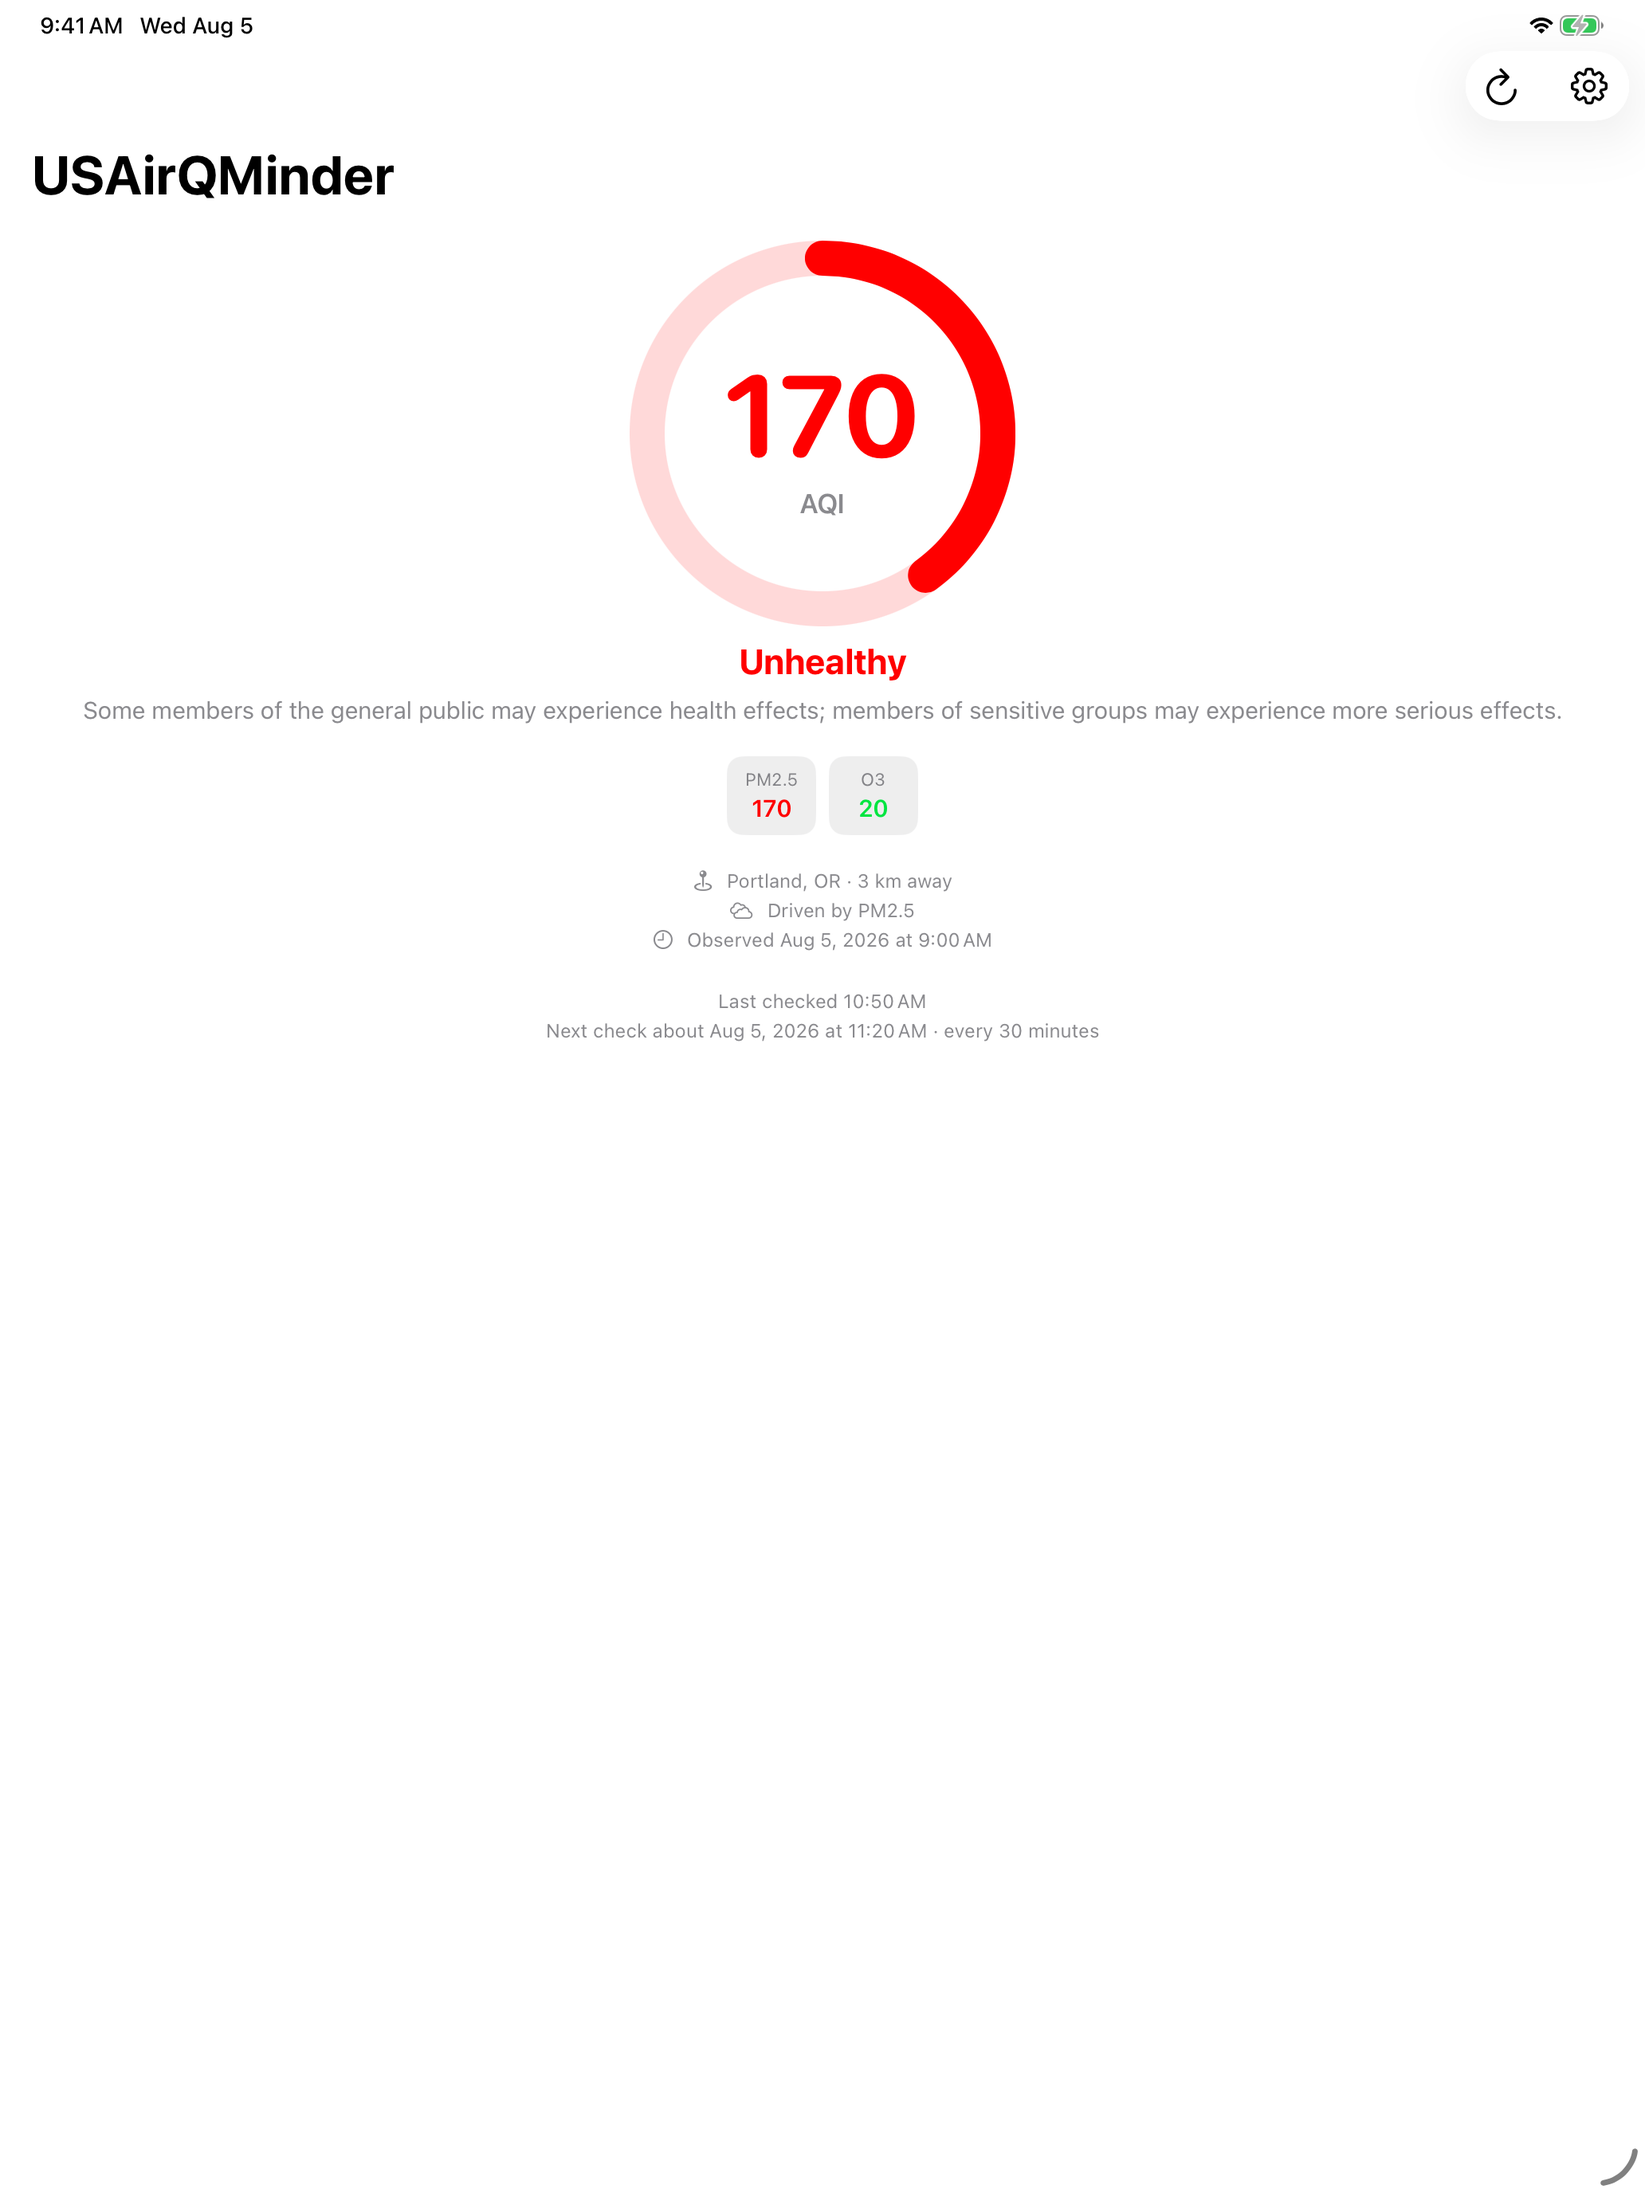
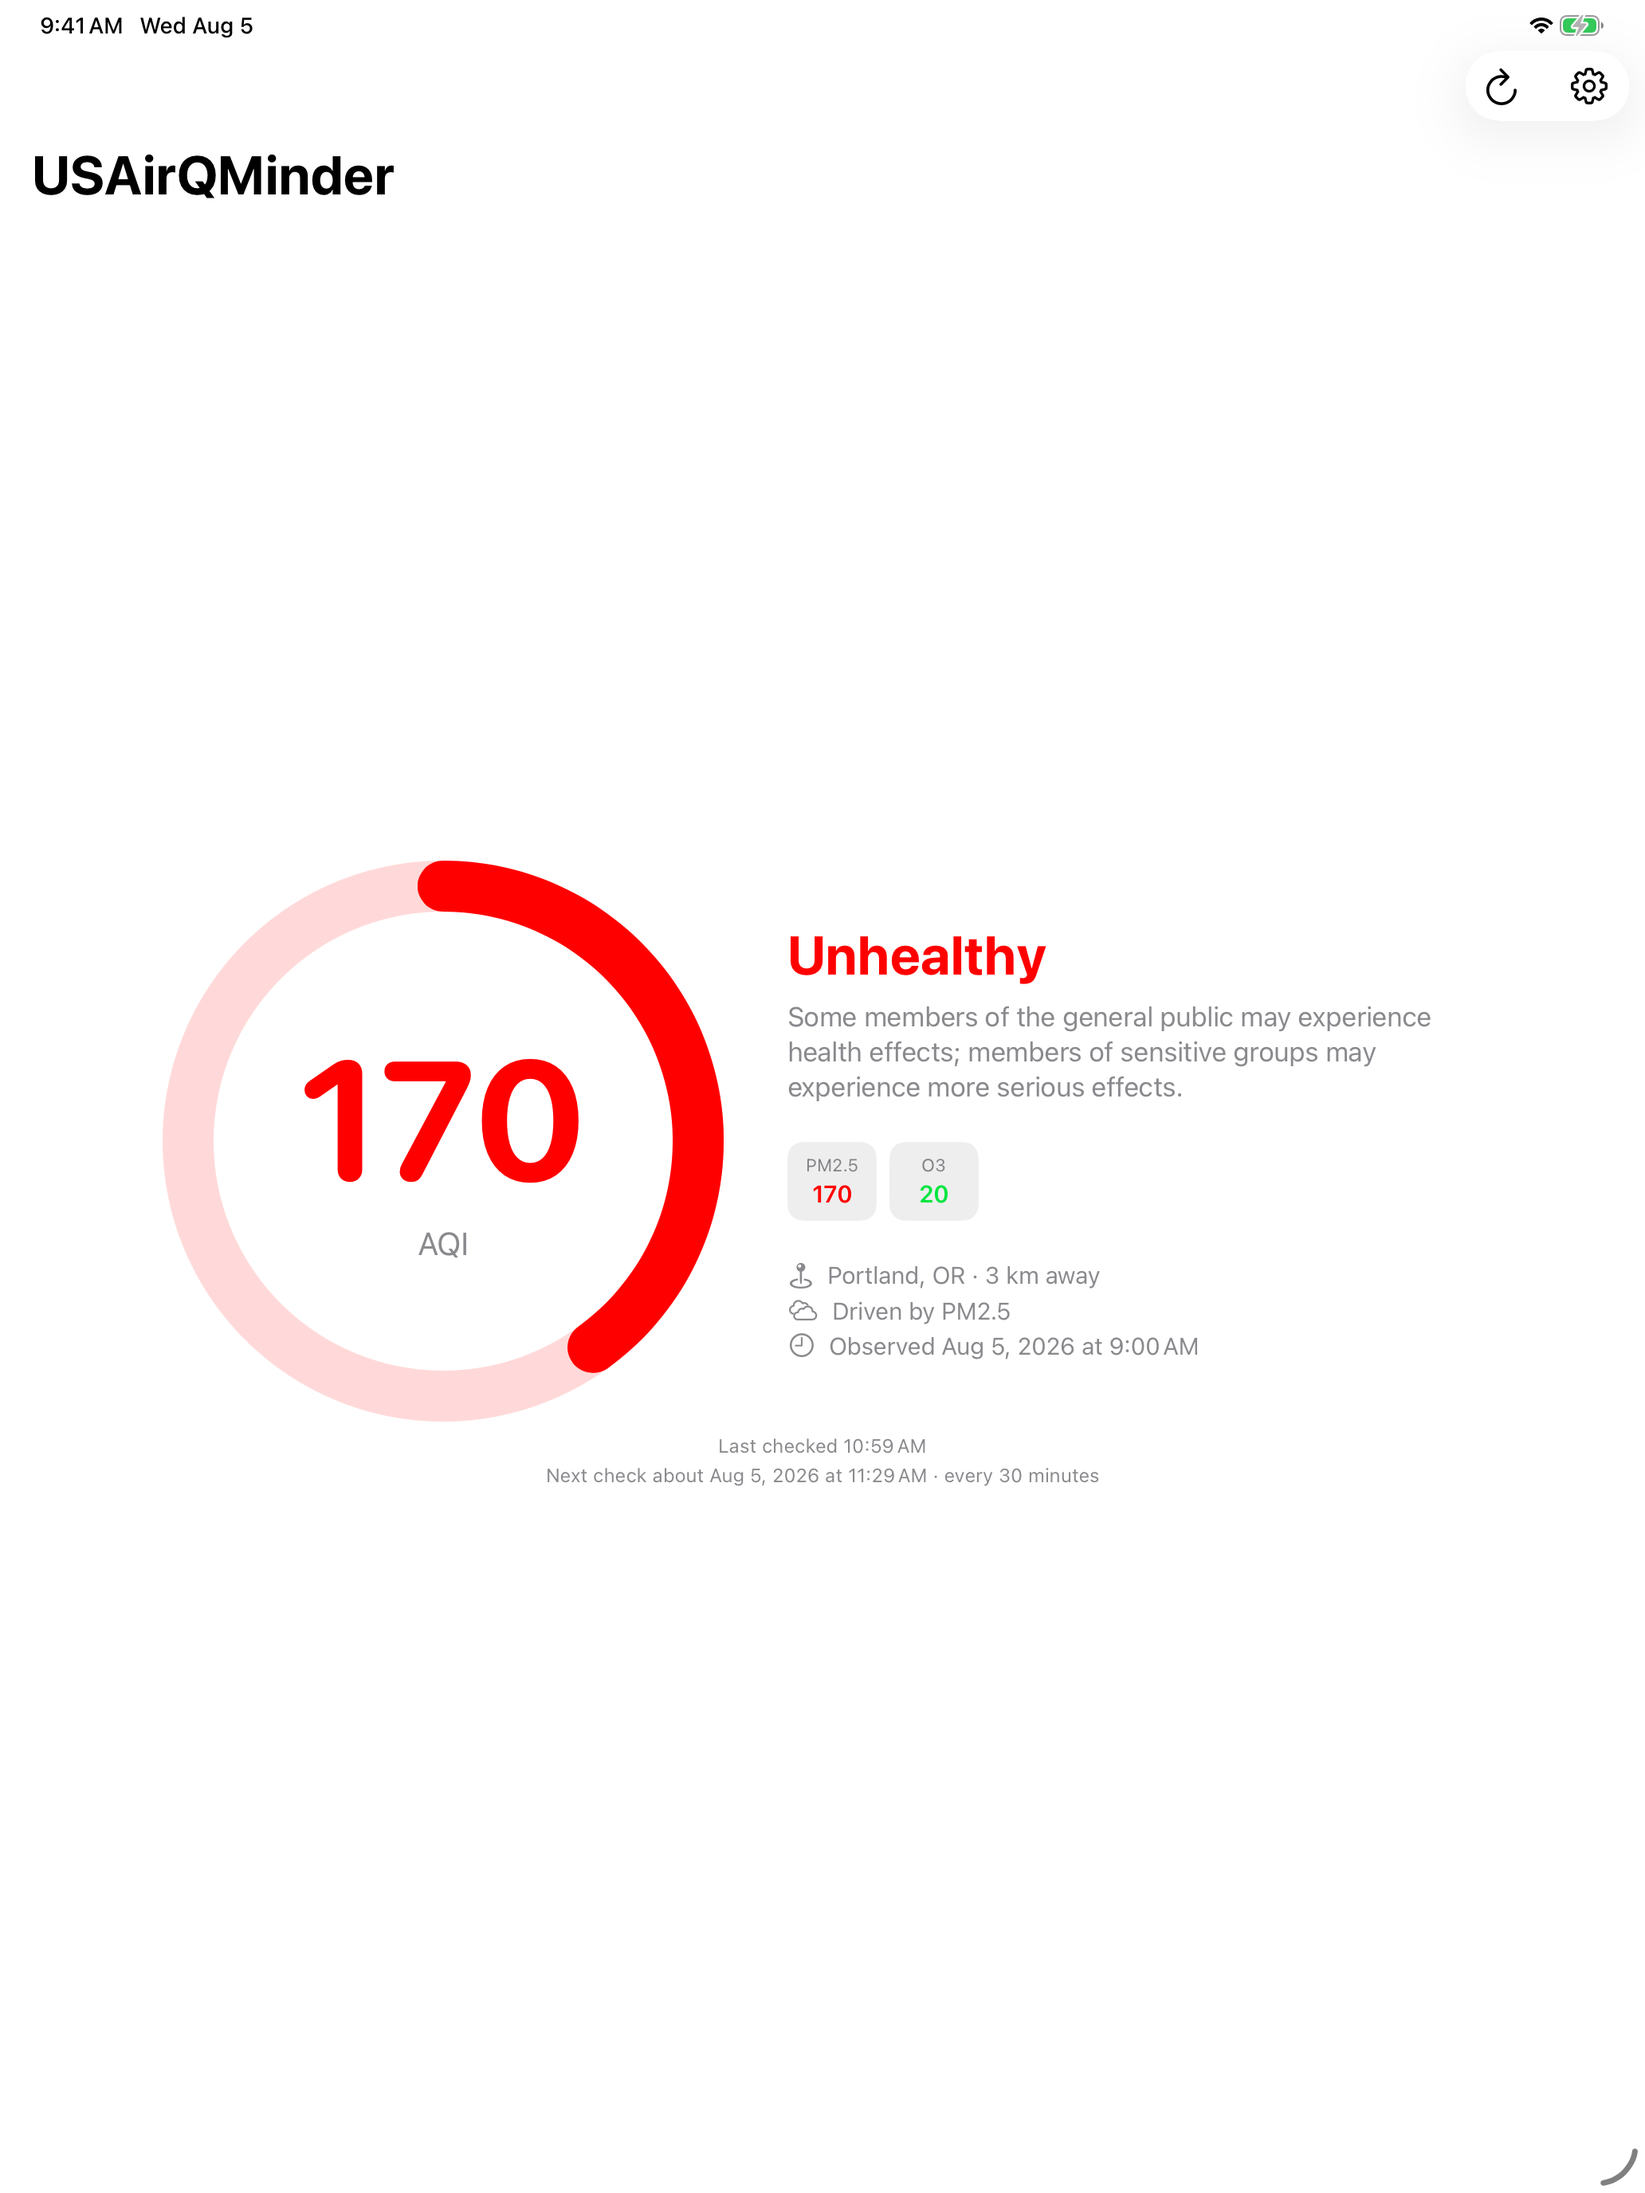
Lay the reading screen out properly on iPad
It was the phone layout stretched: dial and text in the top third of a 13"
screen, two thirds empty. Now the dial sits left at 320pt with the
category, advice, pollutants and detail in a column beside it, and the
whole thing centres in the available height.

The text column is capped at 420pt rather than filling the width. A line
of body text running the full 13" is harder to read than the whitespace
it would replace.

Switched on horizontalSizeClass, so it also applies to an iPad in a wide
split view and correctly does not apply to a narrow one. The iPhone
layout is untouched — verified by re-shooting Portland on the phone and
comparing against the previous capture.

containerRelativeFrame does the vertical centring, behind a small helper
so the modifier only applies where wanted; its closure returns a length,
not an axis, which cost a build.

iPad-01 re-shot. The other three iPad shots are the home screen and
widget picker, which this doesn't touch.

diff --git a/USAirQMinder/ContentView.swift b/USAirQMinder/ContentView.swift
@@ -3,6 +3,7 @@ import SwiftUI
 struct ContentView: View {
     @EnvironmentObject private var viewModel: AppViewModel
     @State private var showSettings = false
+    @Environment(\.horizontalSizeClass) private var horizontalSizeClass
 
     var body: some View {
         NavigationStack {
@@ -45,6 +46,10 @@ struct ContentView: View {
                     scheduleFooter
                 }
                 .padding(.vertical)
+                // On a tall iPad screen the content otherwise sits jammed under
+                // the title with the rest of the page blank; this centres it in
+                // the space instead. Left alone on iPhone, where it fills.
+                .verticallyCentredInContainer(horizontalSizeClass == .regular)
             }
             .refreshable { await viewModel.refresh() }
             .navigationTitle("USAirQMinder")
@@ -99,6 +104,10 @@ struct ContentView: View {
 private struct ReadingCard: View {
     let reading: AQIReading
 
+    @Environment(\.horizontalSizeClass) private var horizontalSizeClass
+
+    private var isWide: Bool { horizontalSizeClass == .regular }
+
     /// The dial fills across the band the reading sits in, so a move from 40
     /// to 60 is visible rather than being lost on a 0–500 sweep.
     private var dialFraction: Double {
@@ -118,75 +127,121 @@ private struct ReadingCard: View {
         return min(max((Double(reading.aqi) - lower) / span, 0.02), 1.0)
     }
 
-    var body: some View {
-        VStack(spacing: 20) {
-            ZStack {
-                Circle()
-                    .stroke(reading.category.color.opacity(0.15), lineWidth: 22)
-                Circle()
-                    .trim(from: 0, to: dialFraction)
-                    .stroke(reading.category.color, style: StrokeStyle(lineWidth: 22, lineCap: .round))
-                    .rotationEffect(.degrees(-90))
-                VStack(spacing: 2) {
-                    Text(reading.displayValue)
-                        .font(.system(size: 72, weight: .bold, design: .rounded))
-                        .foregroundStyle(reading.category.textColor)
-                    Text("AQI")
-                        .font(.headline)
-                        .foregroundStyle(.secondary)
-                }
-            }
-            .frame(width: 220, height: 220)
-            .padding(.top, 8)
-            .accessibilityElement(children: .ignore)
-            .accessibilityLabel("Air Quality Index \(reading.displayValue), \(reading.category.label)")
-
-            VStack(spacing: 8) {
-                Text(reading.category.label)
-                    .font(.title2.weight(.bold))
+    private func dial(size: CGFloat) -> some View {
+        ZStack {
+            Circle()
+                .stroke(reading.category.color.opacity(0.15), lineWidth: size * 0.1)
+            Circle()
+                .trim(from: 0, to: dialFraction)
+                .stroke(reading.category.color, style: StrokeStyle(lineWidth: size * 0.1, lineCap: .round))
+                .rotationEffect(.degrees(-90))
+            VStack(spacing: 2) {
+                Text(reading.displayValue)
+                    .font(.system(size: size * 0.33, weight: .bold, design: .rounded))
                     .foregroundStyle(reading.category.textColor)
-                    .multilineTextAlignment(.center)
-
-                Text(reading.category.advice)
-                    .font(.subheadline)
+                Text("AQI")
+                    .font(size > 260 ? .title3 : .headline)
                     .foregroundStyle(.secondary)
-                    .multilineTextAlignment(.center)
-                    .padding(.horizontal)
             }
-
-            if reading.allPollutants.count > 1 {
-                HStack(spacing: 8) {
-                    ForEach(reading.allPollutants, id: \.name) { pollutant in
-                        VStack(spacing: 2) {
-                            Text(pollutant.name)
-                                .font(.caption2)
-                                .foregroundStyle(.secondary)
-                            Text("\(pollutant.aqi)")
-                                .font(.subheadline.weight(.semibold))
-                                .foregroundStyle(AQICategory(aqi: pollutant.aqi).textColor)
-                        }
-                        .frame(minWidth: 56)
-                        .padding(.vertical, 8)
-                        .background(.quaternary.opacity(0.5), in: RoundedRectangle(cornerRadius: 10))
-                    }
-                }
-                .padding(.horizontal)
-            }
-
-            VStack(spacing: 4) {
-                Label("\(reading.location) · \(Int(reading.distanceKm.rounded())) km away", systemImage: "mappin.and.ellipse")
-                Label("Driven by \(reading.parameterName)", systemImage: "smoke")
-                Label("Observed \(reading.observedAt.formatted(date: .abbreviated, time: .shortened))", systemImage: "clock")
-            }
-            .font(.caption)
-            .foregroundStyle(.secondary)
         }
-        .frame(maxWidth: .infinity)
-        .padding(.horizontal)
+        .frame(width: size, height: size)
+        .accessibilityElement(children: .ignore)
+        .accessibilityLabel("Air Quality Index \(reading.displayValue), \(reading.category.label)")
+    }
+
+    private var headline: some View {
+        VStack(alignment: isWide ? .leading : .center, spacing: 8) {
+            Text(reading.category.label)
+                .font(isWide ? .largeTitle.weight(.bold) : .title2.weight(.bold))
+                .foregroundStyle(reading.category.textColor)
+                .multilineTextAlignment(isWide ? .leading : .center)
+
+            Text(reading.category.advice)
+                .font(isWide ? .body : .subheadline)
+                .foregroundStyle(.secondary)
+                .multilineTextAlignment(isWide ? .leading : .center)
+        }
+        .frame(maxWidth: .infinity, alignment: isWide ? .leading : .center)
+    }
+
+    @ViewBuilder
+    private var pollutants: some View {
+        if reading.allPollutants.count > 1 {
+            HStack(spacing: 8) {
+                ForEach(reading.allPollutants, id: \.name) { pollutant in
+                    VStack(spacing: 2) {
+                        Text(pollutant.name)
+                            .font(.caption2)
+                            .foregroundStyle(.secondary)
+                        Text("\(pollutant.aqi)")
+                            .font(.subheadline.weight(.semibold))
+                            .foregroundStyle(AQICategory(aqi: pollutant.aqi).textColor)
+                    }
+                    .frame(minWidth: 56)
+                    .padding(.vertical, 8)
+                    .background(.quaternary.opacity(0.5), in: RoundedRectangle(cornerRadius: 10))
+                }
+            }
+            .frame(maxWidth: .infinity, alignment: isWide ? .leading : .center)
+        }
+    }
+
+    private var metadata: some View {
+        VStack(alignment: isWide ? .leading : .center, spacing: 4) {
+            Label("\(reading.location) · \(Int(reading.distanceKm.rounded())) km away", systemImage: "mappin.and.ellipse")
+            Label("Driven by \(reading.parameterName)", systemImage: "smoke")
+            Label("Observed \(reading.observedAt.formatted(date: .abbreviated, time: .shortened))", systemImage: "clock")
+        }
+        .font(isWide ? .subheadline : .caption)
+        .foregroundStyle(.secondary)
+        .frame(maxWidth: .infinity, alignment: isWide ? .leading : .center)
+    }
+
+    var body: some View {
+        if isWide {
+            // On an iPad the phone layout leaves most of the screen empty, so
+            // the dial and the words it needs sit side by side instead. Capped
+            // rather than filling the width — a line of body text running the
+            // whole 13" is worse than the whitespace it replaces.
+            HStack(alignment: .center, spacing: 56) {
+                dial(size: 320)
+                VStack(alignment: .leading, spacing: 24) {
+                    headline
+                    pollutants
+                    metadata
+                }
+                .frame(maxWidth: 420, alignment: .leading)
+            }
+            .padding(.horizontal, 40)
+            .frame(maxWidth: .infinity)
+        } else {
+            VStack(spacing: 20) {
+                dial(size: 220)
+                    .padding(.top, 8)
+                headline
+                pollutants
+                metadata
+            }
+            .frame(maxWidth: .infinity)
+            .padding(.horizontal)
+        }
     }
 }
 
 #Preview {
     ContentView()
         .environmentObject(AppViewModel())
+}
+
+extension View {
+    /// Fills the scroll container's height and centres within it, so a short
+    /// card sits in the middle of a tall iPad screen rather than at the top.
+    @ViewBuilder
+    func verticallyCentredInContainer(_ enabled: Bool) -> some View {
+        if enabled {
+            containerRelativeFrame(.vertical, alignment: .center)
+        } else {
+            self
+        }
+    }
 }

diff --git a/AppStore/README.md b/AppStore/README.md
@@ -30,11 +30,9 @@ screen holds nothing but the stock apps and this one.
 `02` and `iPad-02` are captured with the API key field **empty** on purpose. A
 real key in a public screenshot would be handing out someone's rate limit.
 
-**The iPad layout is the phone layout stretched.** `iPad-01` is the honest
-picture of it: the dial and text sit in the top third and the remaining two
-thirds is empty white. It is not broken, and Apple will accept it, but it
-reads as unfinished next to apps that use the space. Worth laying out properly
-for iPad before leaning on these in a listing.
+On iPad the reading screen lays out in two columns — dial on the left, category
+and detail beside it — and centres in the height. `iPad-01` shows that. The
+iPhone layout is untouched.
 
 ## Reproducing them
 
@@ -75,8 +73,6 @@ live, though, so a rerun will show whatever the air is doing that day.
 
 ## Still to do before submitting
 
-- The iPad layout wastes two thirds of the screen (see above). The shots are
-  usable; the layout is what wants work.
 - The in-app clock in `01` reads the machine's real time, not 9:41, since the
   status bar override doesn't reach inside the app. Only noticeable if you look
   for it.
